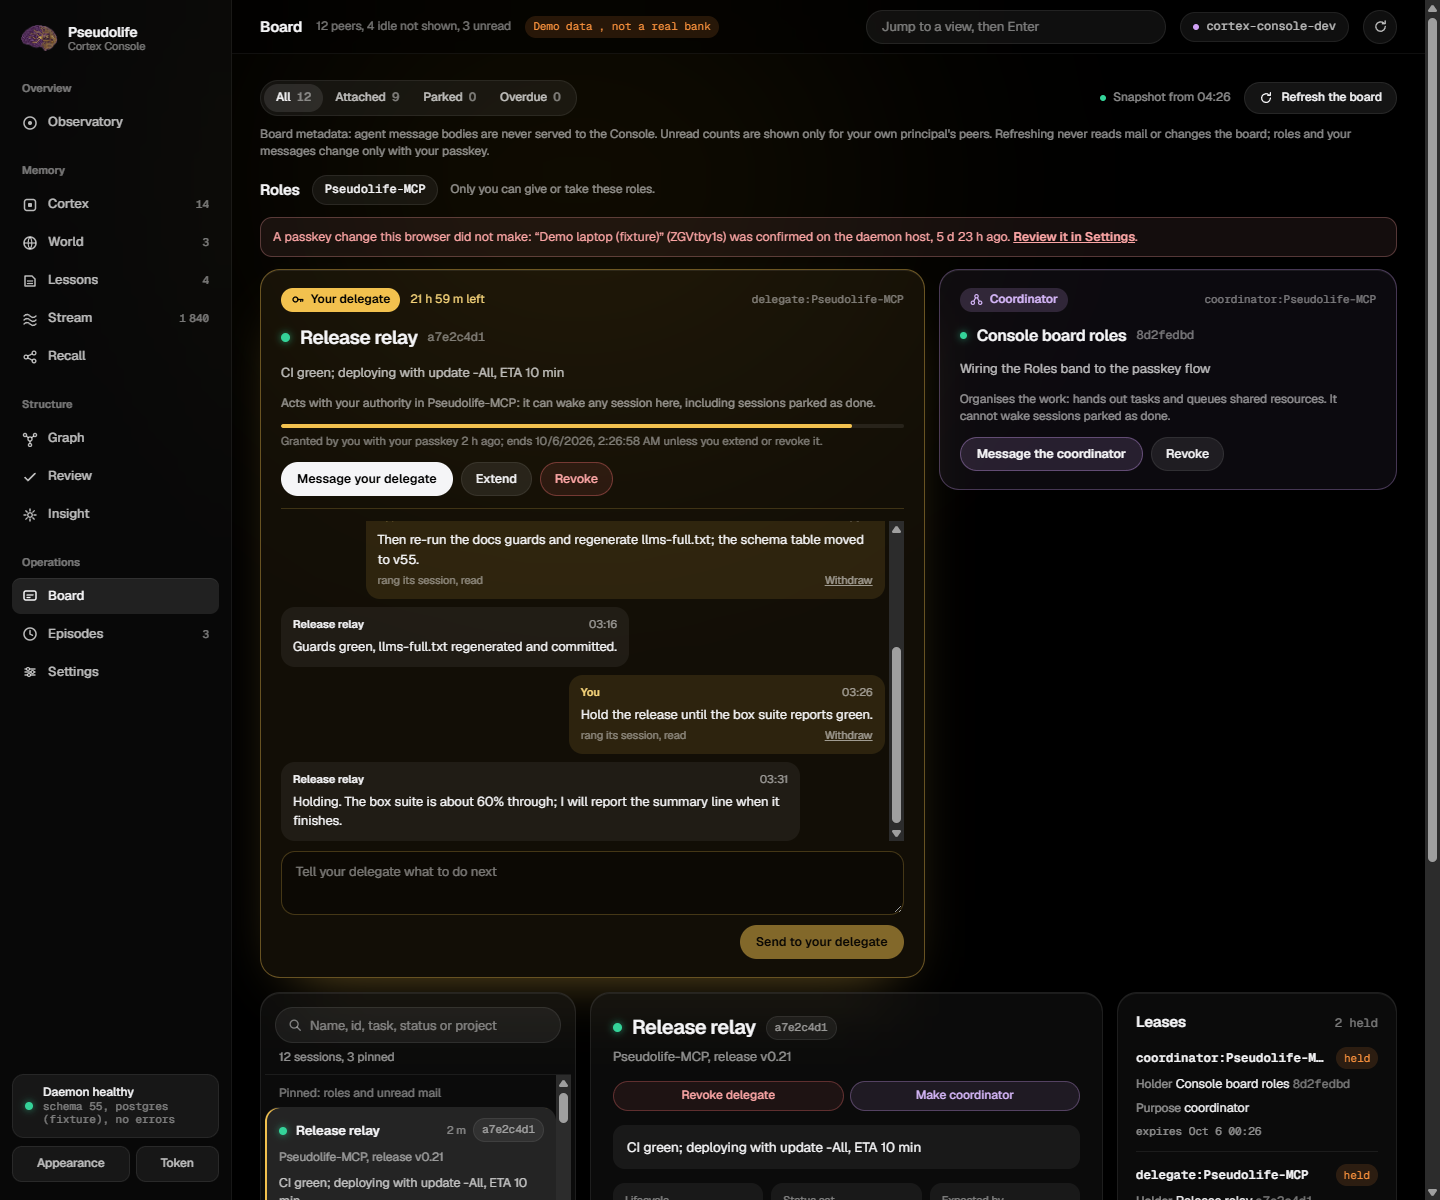
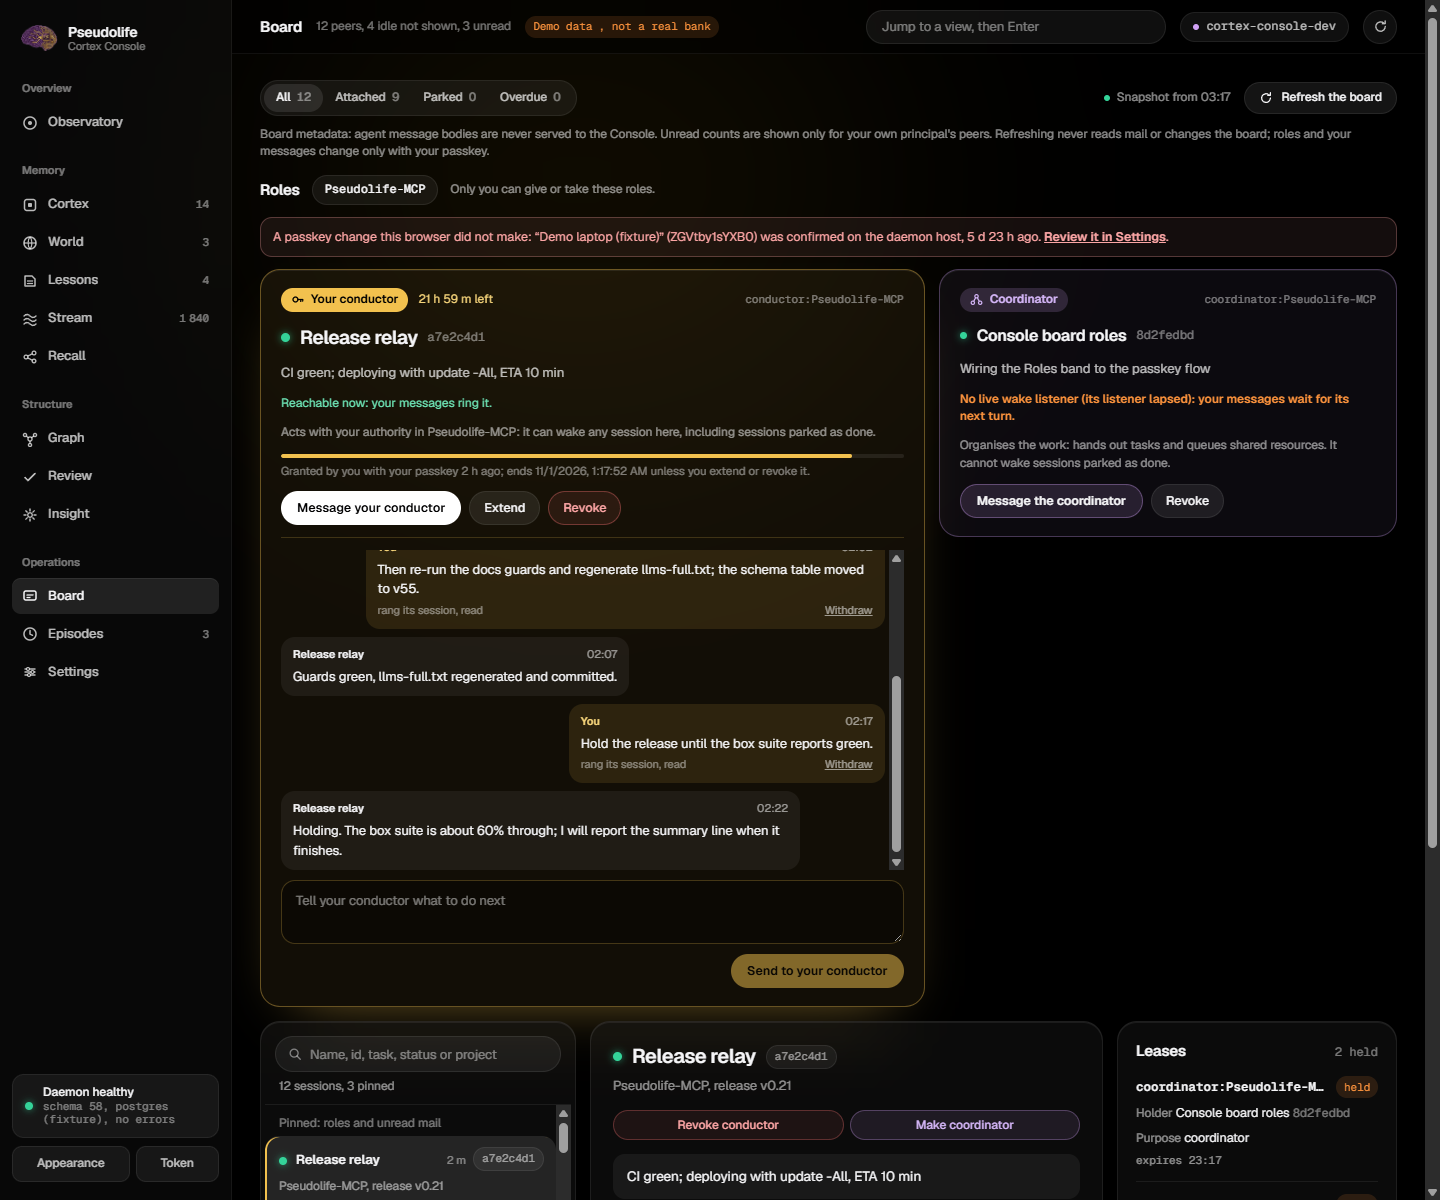
docs(board): describe the conductor role under its stored names
The guide's lease section, upgrade notes, reopen rules and wake reason
table name conductor:<project>, lease_conductor, reason conductor and
already_conductor, with a note on upgrading across the rename (old grants
keep working until they expire or are re-granted). The two Board
screenshots are retaken on the fixture devserver; they predated the
"conductor" wording. The atlas, the CLAUDE.md glossary and llms-full.txt
follow; the changelog fragment covers the whole change.

diff --git a/docs/guide/configuration.md b/docs/guide/configuration.md
@@ -729,20 +729,19 @@ answer to its COMMIT, the change may have been committed: run
 was changed.
 
 `pseudolife-mcp lease delegate PROJECT AGENT [--for DURATION]` is the
-operator's way to name the maintainer's conductor for a project (the role's
-stored name, and its lease's, is still `delegate`): the one session whose
-urgent mail [reopens a done park](#reopening-a-done-park) in
+operator's way to name the maintainer's conductor for a project: the one
+session whose urgent mail [reopens a done park](#reopening-a-done-park) in
 that project. It opens the bank the same way, grants AGENT (its id, or a
-unique prefix of 8 or more characters) the lease `delegate:<PROJECT>` for
+unique prefix of 8 or more characters) the lease `conductor:<PROJECT>` for
 DURATION (default 1d, at most 7d), replacing any current conductor, and logs a
-`lease_delegate` with the operator as its actor. Its JSON answer says whether
+`lease_conductor` with the operator as its actor. Its JSON answer says whether
 the grantee has a live wake path (`reachable`, and the no-path `reason`), and
 when it has none, a warning on stderr says your messages to it wait for its
-next turn. Leases named `delegate:` (and
-`designated:`, their name before 0.16.1) are the operator's alone: a
-session's claim of one is refused `reserved_lease`, so a conductor cannot
-renew its own. It may release it to resign; revoke it with
-`pseudolife-mcp lease break delegate:<PROJECT>`. A freed grant is never
+next turn. Leases named `conductor:` (and `delegate:` and `designated:`, the
+role's earlier names) are the operator's alone: a session's claim of one is
+refused `reserved_lease`, so a conductor cannot renew its own. It may release
+it to resign; revoke it with `pseudolife-mcp lease break conductor:<PROJECT>`.
+A freed grant is never
 passed to a queued session: any waiter leaves the queue (`lease_dequeue`,
 reason `reserved`). In the Docker tier the bank's URL is set only inside the
 daemon container: run either on the daemon's host as it is, and when the
@@ -771,7 +770,8 @@ within a minute, and on the next session start for the brief.
 
 **The decision watcher: `pseudolife-mcp conductor-watch`.** The brief tells
 the conductor to start this once with `pseudolife-mcp conductor-watch
---detach` (`delegate-watch`, its older name, still works). It waits without
+--detach` (`delegate-watch`, its older name, still works and prints one
+line naming `conductor-watch`). It waits without
 a model and sends its owner (by default the session whose `.agent` file sits
 beside its digest; `--owner` names another)
 one board message per batch of events: a pull request opened, merged or
@@ -798,6 +798,18 @@ it; its state, log and a one-line-per-message ledger live beside the
 session's digest, else under `~/.pseudolife-mcp/watch/` (`--state` moves
 them).
 
+**Upgrading across the conductor's rename**, from a release where the grant
+was the lease `delegate:<project>`, recorded as `lease_delegate`, and its rings
+were `reason: delegate`: nothing to do. A grant made before the upgrade keeps
+its authority until it expires (at most 7 days) or the project is granted
+again, which moves the role to `conductor:<project>` and frees the old lease
+in the same change (a `lease_break` with reason `renamed`); revoking the
+conductor from the Console frees either. To revoke an old grant from the host,
+`lease break delegate:<project>`. Wake rows recorded as `delegate` still count
+against the sender's authority budget and a queued reopen is still served. A
+Console tab left open across the upgrade still grants and revokes; reload it
+to see the role in its Roles band again.
+
 **Upgrading from 0.16.0**, where the grant was the lease
 `designated:coordinator:<project>` and its rings were `reason: coordinator`:
 a grant made under the old name reopens nothing after the upgrade, so
@@ -814,7 +826,7 @@ grants. The new park-gate wording in the plugin's hook fallbacks reaches
 clients only through the update's client step.
 
 **Upgrading from 0.16.x** (before schema v54): a session that held both a
-project's conductor (`delegate:`) and coordinator leases keeps renewing its
+project's conductor (`delegate:` then) and coordinator leases keeps renewing its
 coordinator lease after the upgrade; once that hold lapses or is released, it keeps the
 conductor role only. Revoke either role from the Console if you want one
 sooner.
@@ -833,7 +845,7 @@ expect=SECONDS)` takes or queues for a session-held lease, such as
 `coordinator:<project>` or `claim:<path>` for a work area; claiming again renews
 it, and `action="release"` frees it or leaves its queue. `coordinator:<project>`
 says who is coordinating, for peers to read; it grants nothing, since any
-session can claim it (the operator's `delegate:` grant does). A `claim:` lease lasts
+session can claim it (the operator's `conductor:` grant does). A `claim:` lease lasts
 a day between renewals, any other an hour. A claim is advisory: it tells peers,
 it blocks no edit. A queued session is not told when its turn comes: it sees
 the grant the next time it lists or claims, and must renew within the same
@@ -995,7 +1007,7 @@ and the Console reloads the board so you can look again and retry. Coordinator c
 are signed too, although the role grants no authority: otherwise any session
 could evict another's coordinator. A session
 holds one of the two roles at most: the conductor's own claim of the
-coordinator lease is refused `already_delegate`, and a session queued for it
+coordinator lease is refused `already_conductor`, and a session queued for it
 leaves the queue when it is made the conductor.
 
 **Setup.** On the daemon host, run:
@@ -2193,7 +2205,7 @@ characters) and `urgent`, and returns `wake` beside the receipt:
 | `hinted` | ordinary mail to a recipient that is not parked and acted on the board within `active_seconds` (unparked Codex urgency takes the capped attention branch first); its next tool result carries the mail (a parked session has stopped, so it is decided on its park however recently it parked) | |
 | `not_needed` | the recipient is parked `done` and the mail does not reopen it (`reason: parked_done`; see [Reopening a done park](#reopening-a-done-park)), or has not parked at all or its park has lapsed (`reason: no_park`) and the mail is not `urgent`: it is waiting on nobody, so the mail waits for its next turn (a `clears` changes nothing; there is no need to clear) | `reopen_by` for `parked_done`: who could reopen it |
 | `no_path` | unparked Codex urgency has no proved steer path (`reason: no_steer_path`, `delivery: queue_pending`, `recipient_state: unknown`, `queue_allowed: true` for a capped unknown-state bell), or the mail would ring the recipient, but it has neither a live channel nor a currently armed ring listener; an installed or declared ring capability alone is insufficient | the parked need, if any; `reason: listener_unknown` or `listener_expired` for an unarmed or expired ring path; `fallback` (text) and `fallback_paths`, the other ways to reach that client: `codex_doorbell` and `maintainer_types` for a Codex thread, `claude_desktop_send_message` and `maintainer_types` for a Claude Code session; `reopened` for a reopened done park |
-| `rung` | a live path is armed and the recipient is parked with a need the mail plausibly clears: the sender is `park_clear_by` (or, when that names a lease, released it or let it expire within the last 60 seconds, by the daemon's audit log; never for `maintainer`, an agent id or an id prefix), `park_clear_by` is `anyone`, `clears` names the need (the same words, or one's words as a run of whole words inside the other's, holding a word of four letters or more), or `urgent` within the sender's cap; or a non-Codex recipient has old board activity and is not parked (or its park lapsed) and the mail is `urgent`, within the same sender cap (`reason: urgent`); urgent mail from the maintainer or the maintainer's conductor for the recipient's project is `reason: maintainer` or `delegate` (`coordinator` on rows recorded before 0.16.1) and spends the authority budget instead; a done park rings only for the urgent reopen described under [Reopening a done park](#reopening-a-done-park) | `ring_at`; `reopened: true` for a done park |
+| `rung` | a live path is armed and the recipient is parked with a need the mail plausibly clears: the sender is `park_clear_by` (or, when that names a lease, released it or let it expire within the last 60 seconds, by the daemon's audit log; never for `maintainer`, an agent id or an id prefix), `park_clear_by` is `anyone`, `clears` names the need (the same words, or one's words as a run of whole words inside the other's, holding a word of four letters or more), or `urgent` within the sender's cap; or a non-Codex recipient has old board activity and is not parked (or its park lapsed) and the mail is `urgent`, within the same sender cap (`reason: urgent`); urgent mail from the maintainer or the maintainer's conductor for the recipient's project is `reason: maintainer` or `conductor` (`delegate` on rows recorded before the role's rename, `coordinator` before 0.16.1) and spends the authority budget instead; a done park rings only for the urgent reopen described under [Reopening a done park](#reopening-a-done-park) | `ring_at`; `reopened: true` for a done park |
 | `withheld` | parked with a need the mail does not clear | `park_needs`, `park_clear_by`, `retry` (what would ring it: `urgent`, or `clears` naming the need) |
 | `capped` | over a cap: `reason` names it (`recipient_hour`, `nightly`, `urgent_sender_hour`, `authority_sender_hour`) | the parked need, if any |
 
@@ -2265,7 +2277,7 @@ needs to reach it. `urgent` mail reopens it when the sender is one of:
 - **the maintainer's conductor for the project**: the operator made the
   sending session the conductor for the recipient's own, non-empty `project`
   with [`pseudolife-mcp lease delegate`](#leases-pseudolife-mcp-lease), and the grant has
-  not expired, been released or been revoked (`reason: delegate`). The
+  not expired, been released or been revoked (`reason: conductor`). The
   grant names one agent id, not a principal, and no session can take it, so
   it is a credential the maintainer hands out, not a board convention; a
   ring it causes still grants nothing;

diff --git a/changelog.d/2026-10-31-conductor-stored-names.md b/changelog.d/2026-10-31-conductor-stored-names.md
@@ -1,0 +1,22 @@
+### Changed (2026-10-31 — the conductor role is stored under its own name)
+- The maintainer's board role, called "conductor" since 2026-10-30,
+  is now stored that way too: a grant is the lease `conductor:<project>`
+  recorded as `lease_conductor`, its rings carry `reason: conductor`, a
+  conductor claiming its project's coordinator lease is refused
+  `already_conductor`, the Console's signed purposes are `grant-conductor`
+  and `revoke-conductor`, and the maintainer status's role slots are
+  `{"conductor", "coordinator"}`. Python daemon, Rust daemon and shim, and
+  the Console change together.
+- Nothing to migrate by hand. A grant made before the upgrade
+  (`delegate:<project>`, `lease_delegate`) keeps its authority until it
+  expires (at most 7 days) or the project is granted again, which moves the
+  role to `conductor:<project>` and frees the old lease in the same change
+  (`lease_break`, reason `renamed`); the Console's revoke frees either name.
+  Both names stay reserved. Wake rows recorded as `delegate` still count
+  against the authority budget and are still served, and a Console tab
+  still asking for `grant-delegate` or `revoke-delegate` is issued the new
+  purpose.
+- `pseudolife-mcp conductor-watch` is the watcher's command and
+  `pseudolife_memory.conductor_watch_cli` its module; `delegate-watch` still
+  runs it after one stderr line naming `conductor-watch`. The `lease
+  delegate` command keeps its name; its help names the new lease.

diff --git a/CLAUDE.md b/CLAUDE.md
@@ -576,9 +576,9 @@ commit messages.
 - **principal / tier**: the bearer-token caller identity, which keys the
   toolset tier.
 - **conductor**: the maintainer's board role (granted per project) that acts
-  for them on the board. Its stored id and lease name are still `delegate`
-  (`delegate:<project>`); `lease delegate` keeps its name and
-  `conductor-watch` is an alias of `delegate-watch`.
+  for them on the board, held as the lease `conductor:<project>` (granted
+  with `lease delegate`, whose name stays); `delegate:<project>` and
+  `delegate-watch` are its deprecated old names, still accepted.
 - **Console**: the web UI (Cortex Console). The **System Atlas**
   (`docs/atlas/`) is the curated codebase architecture map, not the
   Console's Graph view of the bank.
